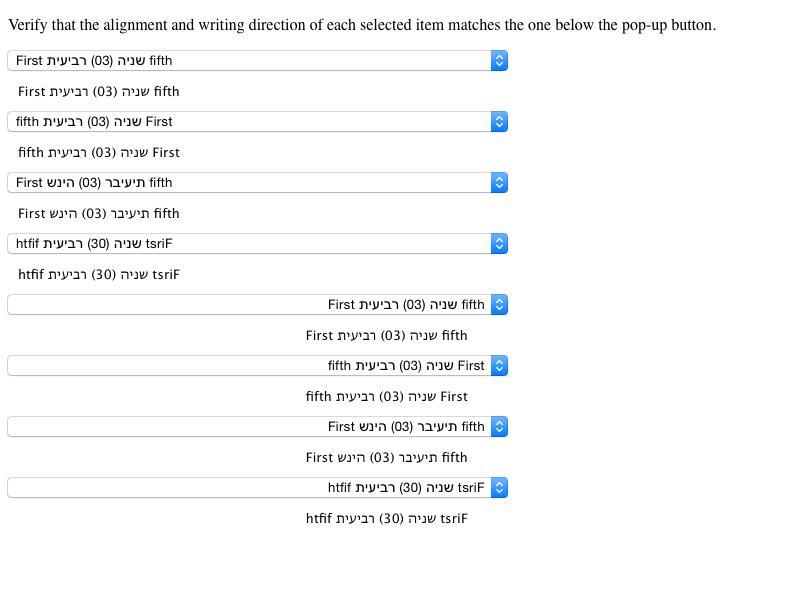
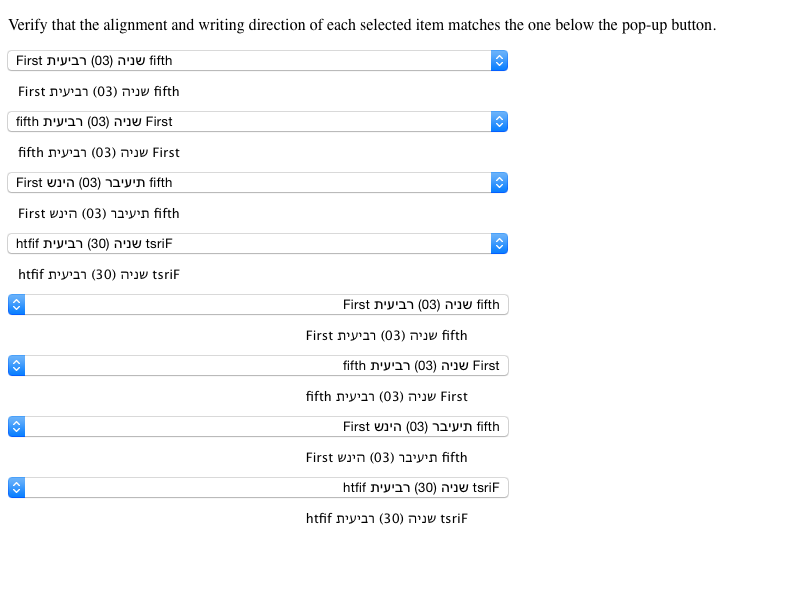
RTL native <select> buttons should have arrows on left https://bugs.webkit.org/show_bug.cgi?id=157055 <rdar://problem/25894428>
Source/WebCore:

Reviewed by Myles Maxfield.

If the text direction is right-to-left, the select popup
buttons should have the arrows on the left side.

Test: fast/forms/select-writing-direction-natural.html

* rendering/RenderThemeMac.h:
* rendering/RenderThemeMac.mm:
(WebCore::RenderThemeMac::popupButtonPadding): Takes a direction parameter.
(WebCore::RenderThemeMac::popupInternalPaddingBox): Checks the direction for the padding.
(WebCore::RenderThemeMac::setPopupButtonCellState): Tell the button to put the
arrows on the correct side.
(WebCore::RenderThemeMac::popupButton): Deleted an unnecessary comment.

LayoutTests:

Reviewed by Myles Maxfield.

* fast/forms/select-writing-direction-natural.html: Removed some incorrect
text in the test.
* platform/ios-simulator/fast/forms/select-writing-direction-natural-expected.txt:
* platform/mac/fast/forms/select-writing-direction-natural-expected.png:
* platform/mac/fast/forms/select-writing-direction-natural-expected.txt:
* platform/mac/fast/text/international/bidi-menulist-expected.png:
* platform/mac/fast/text/international/bidi-menulist-expected.txt:
* platform/mac/fast/text/international/pop-up-button-text-alignment-and-direction-expected.png:
* platform/mac/fast/text/international/pop-up-button-text-alignment-and-direction-expected.txt:

Identifier: 175173@main
git-svn-id: https://svn.webkit.org/repository/webkit/trunk@200118 268f45cc-cd09-0410-ab3c-d52691b4dbfc

diff --git a/LayoutTests/fast/forms/select-writing-direction-natural.html b/LayoutTests/fast/forms/select-writing-direction-natural.html
@@ -10,9 +10,6 @@
         Test for <i><a href="http://bugs.webkit.org/show_bug.cgi?id=13775">http://bugs.webkit.org/show_bug.cgi?id=13775</a>
         REGRESSION: Popup button text should use "natural" directionality to match the items in the popup menu</i>.
     </p>
-    <p>
-        In all of the popup buttons below, the letter A should be on the left and the letter &#x05d0; should be on the right.
-    </p>
     <div style="direction: ltr;">
         <div style="text-align: left;">
             <select><option>&#x05d0;A</option></select>

diff --git a/Source/WebCore/rendering/RenderThemeMac.mm b/Source/WebCore/rendering/RenderThemeMac.mm
@@ -896,15 +896,21 @@ const IntSize* RenderThemeMac::popupButtonSizes() const
     return sizes;
 }
 
-const int* RenderThemeMac::popupButtonPadding(NSControlSize size) const
+const int* RenderThemeMac::popupButtonPadding(NSControlSize size, bool isRTL) const
 {
-    static const int padding[3][4] =
+    static const int paddingLTR[3][4] =
     {
         { 2, 26, 3, 8 },
         { 2, 23, 3, 8 },
         { 2, 22, 3, 10 }
     };
-    return padding[size];
+    static const int paddingRTL[3][4] =
+    {
+        { 2, 8, 3, 26 },
+        { 2, 8, 3, 23 },
+        { 2, 8, 3, 22 }
+    };
+    return isRTL ? paddingRTL[size] : paddingLTR[size];
 }
 
 bool RenderThemeMac::paintMenuList(const RenderObject& renderer, const PaintInfo& paintInfo, const FloatRect& rect)
@@ -1368,10 +1374,11 @@ void RenderThemeMac::adjustMenuListStyle(StyleResolver& styleResolver, RenderSty
 LengthBox RenderThemeMac::popupInternalPaddingBox(const RenderStyle& style) const
 {
     if (style.appearance() == MenulistPart) {
-        return { static_cast<int>(popupButtonPadding(controlSizeForFont(style))[topPadding] * style.effectiveZoom()),
-            static_cast<int>(popupButtonPadding(controlSizeForFont(style))[rightPadding] * style.effectiveZoom()),
-            static_cast<int>(popupButtonPadding(controlSizeForFont(style))[bottomPadding] * style.effectiveZoom()),
-            static_cast<int>(popupButtonPadding(controlSizeForFont(style))[leftPadding] * style.effectiveZoom()) };
+        const int* padding = popupButtonPadding(controlSizeForFont(style), style.direction() == RTL);
+        return { static_cast<int>(padding[topPadding] * style.effectiveZoom()),
+            static_cast<int>(padding[rightPadding] * style.effectiveZoom()),
+            static_cast<int>(padding[bottomPadding] * style.effectiveZoom()),
+            static_cast<int>(padding[leftPadding] * style.effectiveZoom()) };
     }
 
     if (style.appearance() == MenulistButtonPart) {
@@ -1422,6 +1429,8 @@ void RenderThemeMac::setPopupButtonCellState(const RenderObject& o, const IntSiz
 
     // Set the control size based off the rectangle we're painting into.
     setControlSize(popupButton, popupButtonSizes(), buttonSize, o.style().effectiveZoom());
+
+    popupButton.userInterfaceLayoutDirection = o.style().direction() == LTR ? NSUserInterfaceLayoutDirectionLeftToRight : NSUserInterfaceLayoutDirectionRightToLeft;
 
     // Update the various states we respond to.
     updateCheckedState(popupButton, o);
@@ -1957,10 +1966,6 @@ NSPopUpButtonCell* RenderThemeMac::popupButton() const
         m_popupButton = adoptNS([[NSPopUpButtonCell alloc] initTextCell:@"" pullsDown:NO]);
         [m_popupButton.get() setUsesItemFromMenu:NO];
         [m_popupButton.get() setFocusRingType:NSFocusRingTypeExterior];
-        // We don't want the app's UI layout direction to affect the appearance of popup buttons in
-        // web content, which has its own layout direction.
-        // FIXME: Make this depend on the directionality of the select element, once the rest of the
-        // rendering code can account for the popup arrows appearing on the other side.
         [m_popupButton setUserInterfaceLayoutDirection:NSUserInterfaceLayoutDirectionLeftToRight];
     }
 

diff --git a/Source/WebCore/rendering/RenderThemeMac.h b/Source/WebCore/rendering/RenderThemeMac.h
@@ -192,7 +192,7 @@ private:
     void setPopupButtonCellState(const RenderObject&, const IntSize&);
     const IntSize* popupButtonSizes() const;
     const int* popupButtonMargins() const;
-    const int* popupButtonPadding(NSControlSize) const;
+    const int* popupButtonPadding(NSControlSize, bool isRTL) const;
     void paintMenuListButtonGradients(const RenderObject&, const PaintInfo&, const IntRect&);
     const IntSize* menuListSizes() const;
 
